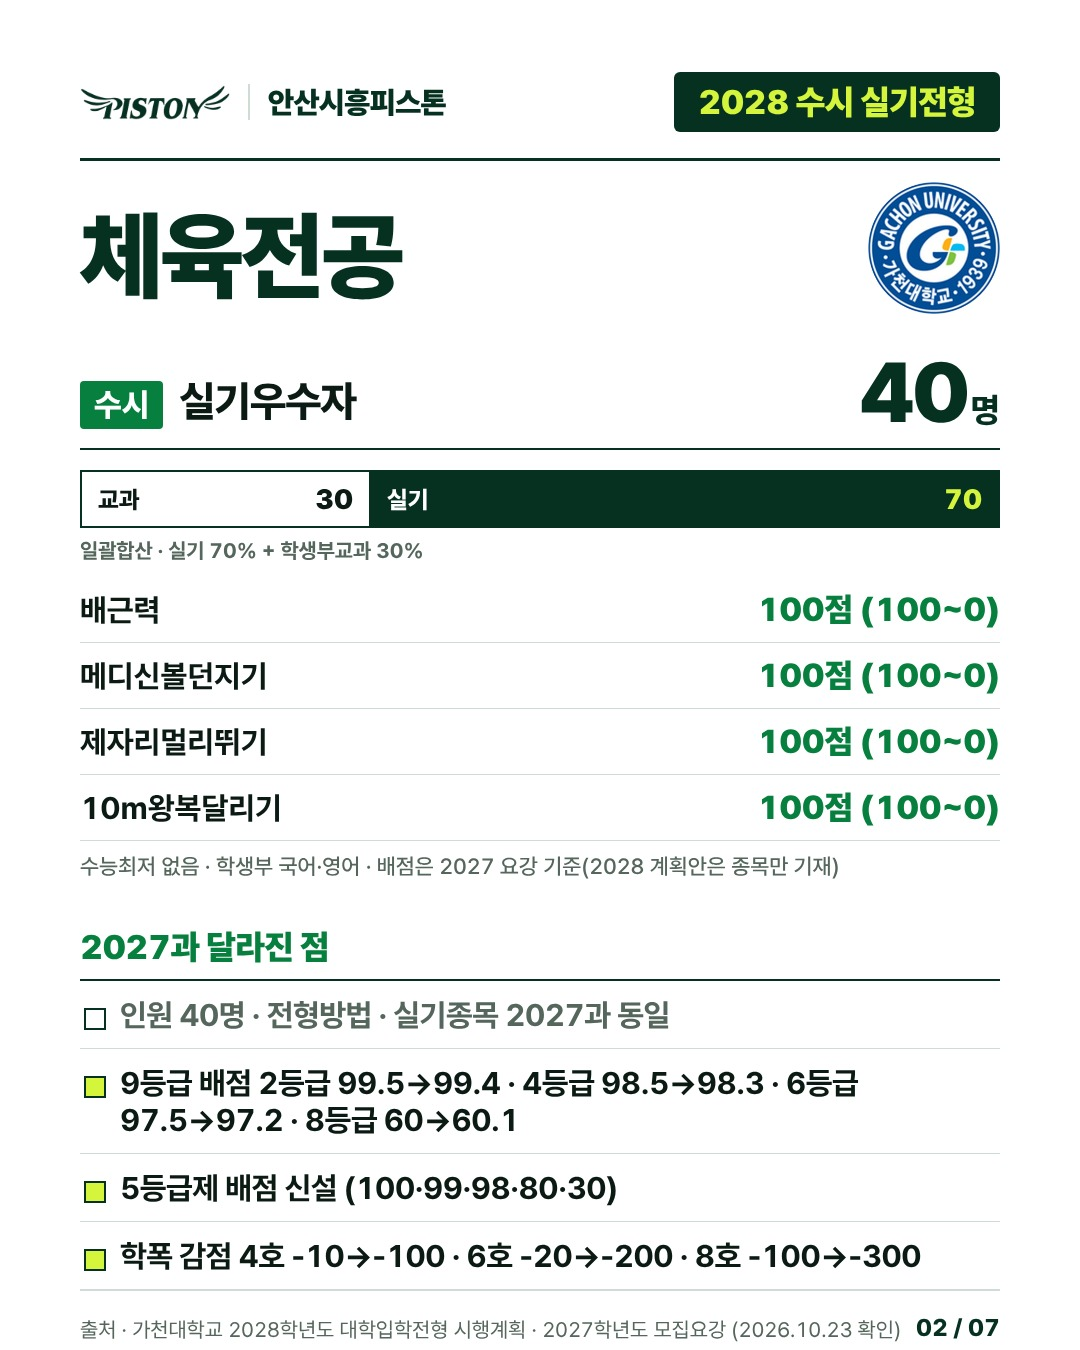
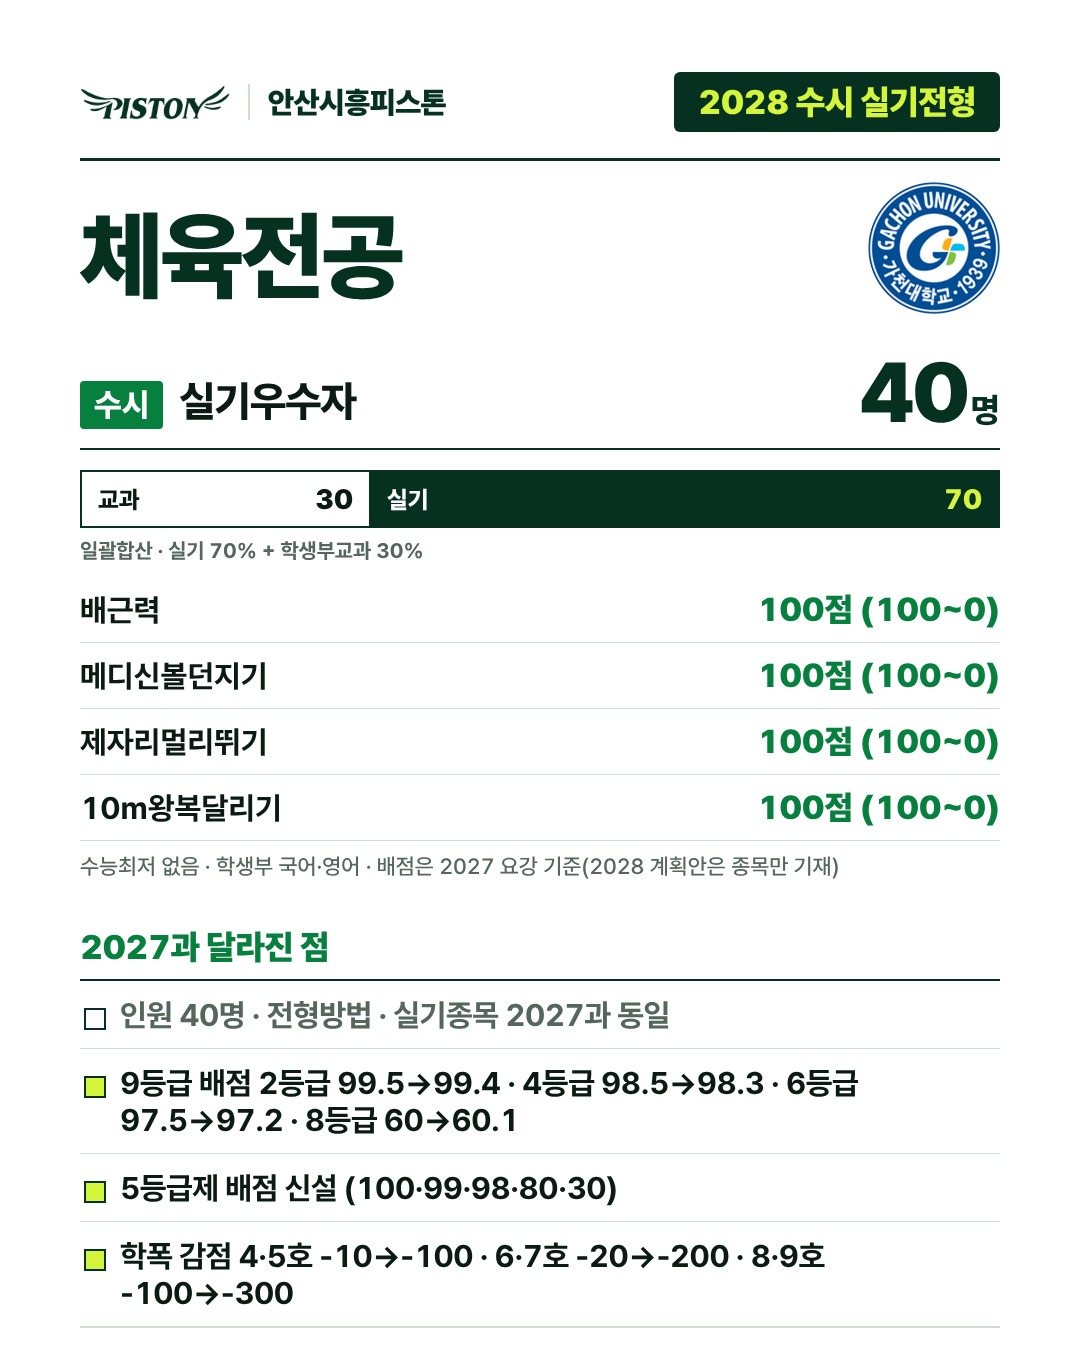
가천대 학폭 감점 표를 원본 PDF 병합칸(4·5호/6·7호/8·9호)대로 수정
Claude-Session: https://claude.ai/code/session_01ESvGERstcg2VfyZsGdWGeY

Changed region(s): [[0.0611, 0.9022, 0.9167, 0.9956]]

diff --git a/social/out/gachon-susi/factcheck.md b/social/out/gachon-susi/factcheck.md
@@ -59,3 +59,14 @@
 
 남은 문제 없음.
 최종 판정: 통과
+
+## 원본 PDF 대조 (2026-10-24, 원장님이 올려 준 PDF 원본)
+- 2028 계획안 p.5(PDF 6쪽) 학생부 반영: 예·체능 국어·영어, 5등급제 100·99·98·80·30, 9등급제 100·99.4·99·98.3·98·97.2·85·60.1·30 — 일치
+- 2028 p.20 실기우수자: 체육전공 40명, 배근력·메디신볼던지기·제자리멀리뛰기·10m왕복달리기, 실기 70% + 학생부교과 30%, 수능최저 없음 — 일치
+- 2028 p.28 정시 미충원 다군 선발 문구, 예·체능 국어 50·영어 50, 영어 98·95·92·86·80·60·50·40·30 — 일치
+- 2028 p.29 학교폭력: 칸 병합 확인 → 4·5호 -100, 6·7호 -200, 8·9호 -300. 카드가 4·6·8호에만 값을 둔 것은 **불일치** → 4·5호/6·7호/8·9호로 수정
+- 2027 요강 p.101 학교폭력: 4·5호 -10, 6·7호 -20, 8·9호 -100 (병합) → 같은 방식으로 수정
+- 2027 p.85 예·체능 9등급 100·99.5·99·98.5·98·97.5·85·60·30 — 일치
+- 2027 p.76·77·79 인원 40·30, 종목별 100점, 채점기준표 21행 전부 — 일치
+- 2027 p.87 비교내신 표 — 일치 / p.76 동점자 ①②③ — 일치
+최종 판정(수정 후): 통과

diff --git a/social/out/gachon-susi/blog.md b/social/out/gachon-susi/blog.md
@@ -20,7 +20,7 @@
 - 인원 40명 · 전형방법 · 실기종목 2027과 동일
 - 9등급 배점 2등급 99.5→99.4 · 4등급 98.5→98.3 · 6등급 97.5→97.2 · 8등급 60→60.1
 - 5등급제 배점 신설 (100·99·98·80·30)
-- 학폭 감점 4호 -10→-100 · 6호 -20→-200 · 8호 -100→-300
+- 학폭 감점 4·5호 -10→-100 · 6·7호 -20→-200 · 8·9호 -100→-300
 
 
 
@@ -99,10 +99,10 @@
 
 **학교폭력 감점 · 실기위주 일괄합산 (1,000점 만점 기준)**
 
-| 학년도 | 1호 | 2호 | 3호 | 4호 | 5호 | 6호 | 7호 | 8호 | 9호 |
-| --- | --- | --- | --- | --- | --- | --- | --- | --- | --- |
-| 2027 | - | - | - | -10 |  | -20 |  | -100 |  |
-| 2028 | - | - | - | -100 |  | -200 |  | -300 |  |
+| 학년도 | 1호 | 2호 | 3호 | 4·5호 | 6·7호 | 8·9호 |
+| --- | --- | --- | --- | --- | --- | --- |
+| 2027 | - | - | - | -10 | -20 | -100 |
+| 2028 | - | - | - | -100 | -200 | -300 |
 
 ※ 학년별 반영: 1학년~3학년 1학기 100% (졸업예정자·졸업자 모두 3학년 1학기까지)
 ※ 반영교과 전체과목 평균(이수단위 적용), 석차등급이 산출된 과목만 해당
